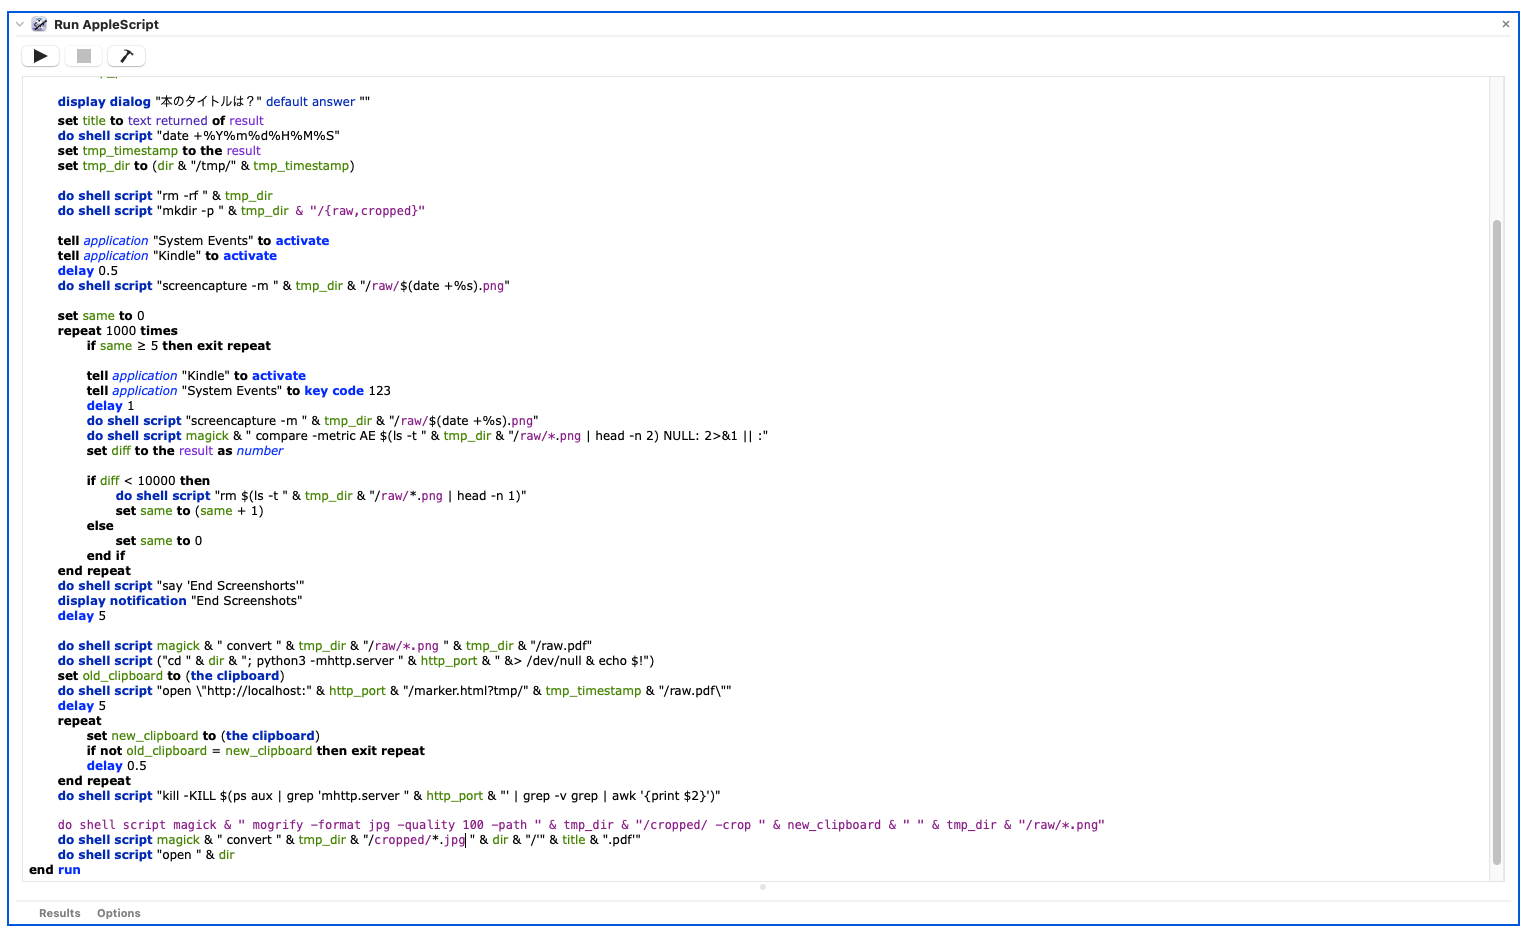
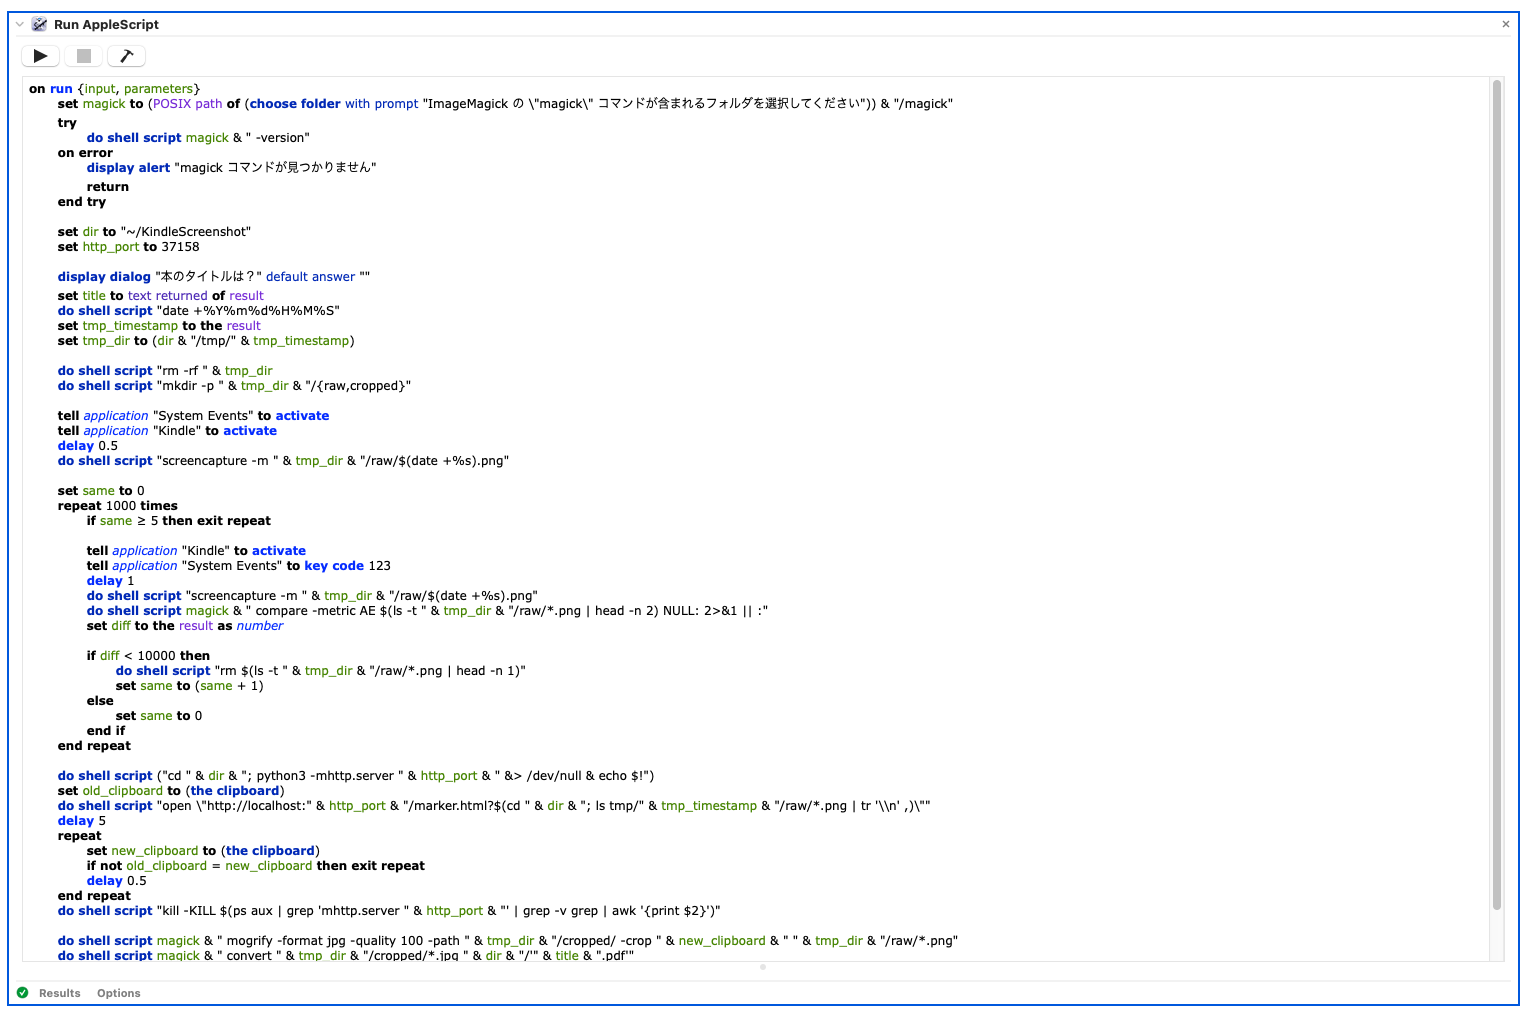
do not create raw.pdf

diff --git a/marker.html b/marker.html
@@ -1,14 +1,13 @@
 <body>
-  <script src="//mozilla.github.io/pdf.js/build/pdf.js"></script>
   <div>
     page:
-    <button onclick="pageDom.value = Math.max(1, parseInt(pageDom.value, 10)-1); renderPdf();">&lt;prev</button>
-    <input type="text" id="page" value="1" size="4" onchange="renderPdf()" />
-    <button onclick="pageDom.value = Math.min(pdfDoc.numPages, parseInt(pageDom.value, 10)+1); renderPdf();">next&gt;</button>
+    <button onclick="pageDom.value = Math.max(1, parseInt(pageDom.value, 10)-1); renderPage();">&lt;prev</button>
+    <input type="text" id="page" value="1" size="4" onchange="renderPage()" />
+    <button onclick="pageDom.value = Math.min(files.length, parseInt(pageDom.value, 10)+1); renderPage();">next&gt;</button>
     scale (%):
-    <button onclick="scaleDom.value = Math.max(10, parseInt(scaleDom.value, 10)-10); renderPdf();">-</button>
-    <input type="text" id="scale" value="80" size="4" onchange="renderPdf()" />
-    <button onclick="scaleDom.value = Math.min(100, parseInt(scaleDom.value, 10)+10); renderPdf();">+</button>
+    <button onclick="scaleDom.value = Math.max(10, parseInt(scaleDom.value, 10)-10); renderPage();">-</button>
+    <input type="text" id="scale" value="80" size="4" onchange="renderPage()" />
+    <button onclick="scaleDom.value = Math.min(100, parseInt(scaleDom.value, 10)+10); renderPage();">+</button>
   </div>
   <div>
     current size: <span id="current_size"></span> (original: <span id="original_size"></span>)
@@ -23,116 +22,90 @@
     Go!
   </button>
   <div style="margin-top: 2em; position: relative;">
-    <canvas style="position: absolute; left: 0; top: 0;" id="pdf"></canvas>
+    <img style="position: absolute; left: 0; top: 0;" id="pages" />
     <canvas style="position: absolute; left: 0; top: 0;" id="rect"></canvas>
   </div>
   <script>
-var pdfUrl = decodeURIComponent(location.search.substring(1));
+var files = location.search.substring(1).split(',');
 
-var pdfDoc = null;
-var pdfjsLib = window['pdfjs-dist/build/pdf'];
-pdfjsLib.GlobalWorkerOptions.workerSrc = '//mozilla.github.io/pdf.js/build/pdf.worker.js';
-
+var imageDom = document.getElementById('pages');
+var rectDom = document.getElementById('rect');
 var pageDom = document.getElementById('page');
 var scaleDom = document.getElementById('scale');
-var renderPdf = function() {
-  pageNumber = parseInt(pageDom.value, 10);
-  scalePercent = parseInt(scaleDom.value, 10);
-  var onload = function(pdfDoc_) {
-    pdfDoc = pdfDoc_;
-    return pdfDoc_.getPage(pageNumber).then(function(page) {
-      var original = page.getViewport({scale: 1});
-      document.getElementById('original_size').innerText = original.width + 'x' + original.height;
 
-      var scale = scalePercent / 100;
-      var viewport = page.getViewport({scale: scale});
-      document.getElementById('current_size').innerText = viewport.width + 'x' + viewport.height;
+var context = rectDom.getContext('2d');
+var reacts = [];
+var _rectangle = createRect();
 
-      var pdf = document.getElementById('pdf');
-      pdf.height = viewport.height;
-      pdf.width = viewport.width;
-      var rect = document.getElementById('rect');
-      rect.height = pdf.height;
-      rect.width = pdf.width;
-      var renderContext = {
-        canvasContext: pdf.getContext('2d'),
-        viewport: viewport
-      };
-      page.render(renderContext);
-    });
+function createRect() {
+  return { startY:0, startX:0, endY:0, endX:0 };
+}
+
+function onMouseDown (e) {
+  _rectangle.startY = e.layerY;
+  _rectangle.startX = e.layerX;
+  rectDom.addEventListener ("mousemove", onMouseMove, false);
+}
+function onMouseMove (e) {
+  draw();
+  _rectangle.endY = e.layerY - _rectangle.startY;
+  _rectangle.endX = e.layerX - _rectangle.startX;
+  context.lineWidth = 3;
+  context.strokeStyle = "rgb(255, 0, 0)";
+  context.strokeRect (_rectangle.startX, _rectangle.startY, _rectangle.endX, _rectangle.endY);
+}
+function onMouseUp (e) {
+  draw();
+  _rectangle = createRect();
+  rectDom.removeEventListener ("mousemove", onMouseMove, false);
+}
+
+function normalize(r) {
+  return {
+    startX: Math.floor(Math.min(r.startX, r.startX + r.endX)),
+    startY: Math.floor(Math.min(r.startY, r.startY + r.endY)),
+    endX: Math.floor(Math.max(r.startX, r.startX + r.endX)),
+    endY: Math.floor(Math.max(r.startY, r.startY + r.endY)),
   };
-  if (pdfDoc) {
-    return onload(pdfDoc);
+}
+
+function draw() {
+  context.clearRect(0, 0, rectDom.width, rectDom.height);
+  context.lineWidth = 3;
+  context.strokeStyle = "rgb(255, 0, 0)";
+  var r = _rectangle;
+  context.strokeRect(r.startX, r.startY, r.endX, r.endY);
+
+  var n = normalize(_rectangle);
+  if (n.endX * n.endY === 0) {
+    document.getElementById('selected_area').innerText = '';
   } else {
-    return pdfjsLib.getDocument(pdfUrl).promise.then(onload, function (reason) {
-      console.error(reason);
-    });
+    document.getElementById('selected_area').innerText = '(' + n.startX + ', ' + n.startY + ') - (' + n.endX + ', ' + n.endY + ')';
+    var s = parseInt(scaleDom.value, 10) / 100;
+    var t = {startX: Math.floor(n.startX/s), startY: Math.floor(n.startY/s), endX: Math.floor(n.endX/s), endY: Math.floor(n.endY/s)};
+    document.getElementById('original_area').innerText = '(' + t.startX + ', ' + t.startY + ') - (' + t.endX + ', ' + t.endY + ')';
+    document.getElementById('convert_arg').value = (t.endX-t.startX)+'x'+(t.endY-t.startY)+'+'+t.startX+'+'+t.startY;
   }
-};
+}
 
-window.onload = function() {
-  var rect = document.getElementById('rect');
-  var context = rect.getContext('2d');
-  var reacts = [];
+function renderPage() {
+  var page = parseInt(pageDom.value, 10);
+  imageDom.src = files[page-1];
+}
 
-  rect.addEventListener("mousedown", onMouseDown, false);
-  rect.addEventListener("mouseup" , onMouseUp , false);
+function resize() {
+  var width = imageDom.naturalWidth * scaleDom.value / 100;
+  var height = imageDom.naturalHeight * scaleDom.value / 100;
+  imageDom.style.width =  width + 'px';
+  imageDom.style.height = height + 'px';
+  rectDom.width = width;
+  rectDom.height = height;
+}
 
-  // 矩形オブジェクト
-  var _rectangle = createRect();
+rectDom.addEventListener("mousedown", onMouseDown, false);
+rectDom.addEventListener("mouseup" , onMouseUp , false);
+imageDom.addEventListener('load', resize, false);
 
-  function createRect() {
-    return { startY:0, startX:0, endY:0, endX:0 };
-  }
-
-  function onMouseDown (e) {
-    _rectangle.startY = e.layerY;
-    _rectangle.startX = e.layerX;
-    rect.addEventListener ("mousemove", onMouseMove, false);
-  }
-  function onMouseMove (e) {
-    draw();
-    _rectangle.endY = e.layerY - _rectangle.startY;
-    _rectangle.endX = e.layerX - _rectangle.startX;
-    context.lineWidth = 3;
-    context.strokeStyle = "rgb(255, 0, 0)";
-    context.strokeRect (_rectangle.startX, _rectangle.startY, _rectangle.endX, _rectangle.endY);
-  }
-  function onMouseUp (e) {
-    draw();
-    _rectangle = createRect();
-    rect.removeEventListener ("mousemove", onMouseMove, false);
-  }
-
-  function normalize(r) {
-    return {
-      startX: Math.floor(Math.min(r.startX, r.startX + r.endX)),
-      startY: Math.floor(Math.min(r.startY, r.startY + r.endY)),
-      endX: Math.floor(Math.max(r.startX, r.startX + r.endX)),
-      endY: Math.floor(Math.max(r.startY, r.startY + r.endY)),
-    };
-  }
-
-  function draw() {
-    context.clearRect(0, 0, rect.width, rect.height);
-    context.lineWidth = 3;
-    context.strokeStyle = "rgb(255, 0, 0)";
-    var r = _rectangle;
-    context.strokeRect(r.startX, r.startY, r.endX, r.endY);
-
-    var n = normalize(_rectangle);
-    if (n.endX * n.endY === 0) {
-      document.getElementById('selected_area').innerText = '';
-    } else {
-      document.getElementById('selected_area').innerText = '(' + n.startX + ', ' + n.startY + ') - (' + n.endX + ', ' + n.endY + ')';
-      var s = parseInt(scaleDom.value, 10) / 100;
-      var t = {startX: Math.floor(n.startX/s), startY: Math.floor(n.startY/s), endX: Math.floor(n.endX/s), endY: Math.floor(n.endY/s)};
-      document.getElementById('original_area').innerText = '(' + t.startX + ', ' + t.startY + ') - (' + t.endX + ', ' + t.endY + ')';
-      document.getElementById('convert_arg').value = (t.endX-t.startX)+'x'+(t.endY-t.startY)+'+'+t.startX+'+'+t.startY;
-    }
-  };
-};
-
-renderPdf();
-</script>
+renderPage();
+  </script>
 </body>

diff --git a/README.md b/README.md
@@ -36,14 +36,15 @@ macOS では、リポジトリ内の KindleScreenshot.workflow という Automat
 2. ホームディレクトリに `KindleScreenshot` というフォルダを作成します。<br />`mkdir -p ~/KindleScreenshot`
 3. このリポジトリに含まれる `marker.html` を作成した `KindleScreenshot` フォルダにコピーします。<br />`cp /path/to/kindle-audify/marker.html ~/KindleScreenshot`
 4. Kindle.app を開き、書籍の初めのほう (オーディオブック化したい最初のページ) を表示します。
-5. このリポジトリの `KindleScreenshot.workflow` を開き、実行します。
-6. ImageMagick のパスを尋ねられます。 `which magick` で出力されたファイルを含むフォルダを指定してください。
-7. 書籍のタイトルを尋ねられるので、入力します。
-8. Automator が Kindle アプリを自動で操作しながらスクリーンショットを撮影していきます。操作せずにお待ちください。
-9. しばらく待つと最終ページに辿り着きますが、 **'End Screenshots' という通知が表示されるまで操作しないでください。** 'End Screenshots' という通知が表示された後は操作をしても大丈夫です。
-11. その後しばらく経つとブラウザが起動し、撮影したスクリーンショットを含んだ PDFファイルが表示されます。
-12. PDF ファイル上で書籍の内容部分だけを含むよう矩形選択し、 Go! ボタンをクリックしてください。
-13. しばらく待つと選択された矩形部分だけを抽出した PDF ファイルが作成され、 Finder に表示されます。
+5. macOS の通知をオフ (Do not disturb) にします。
+6. このリポジトリの `KindleScreenshot.workflow` を開き、実行します。
+7. ImageMagick のパスを尋ねられます。 `which magick` で出力されたファイルを含むフォルダを指定してください。
+8. 書籍のタイトルを尋ねられるので、入力します。
+9. Automator が Kindle アプリを自動で操作しながらスクリーンショットを撮影していきます。操作せずにお待ちください。
+10. その後しばらく経つとブラウザが起動し、撮影したスクリーンショットを含んだ PDFファイルが表示されます。
+11. PDF ファイル上で書籍の内容部分だけを含むよう矩形選択し、 Go! ボタンをクリックしてください。
+12. しばらく待つと選択された矩形部分だけを抽出した PDF ファイルが作成され、 Finder に表示されます。
+13. 必要であれば macOS の通知を元に戻します。
 
 ## 3. Google Cloud Storage に PDF ファイルをアップロード
 
